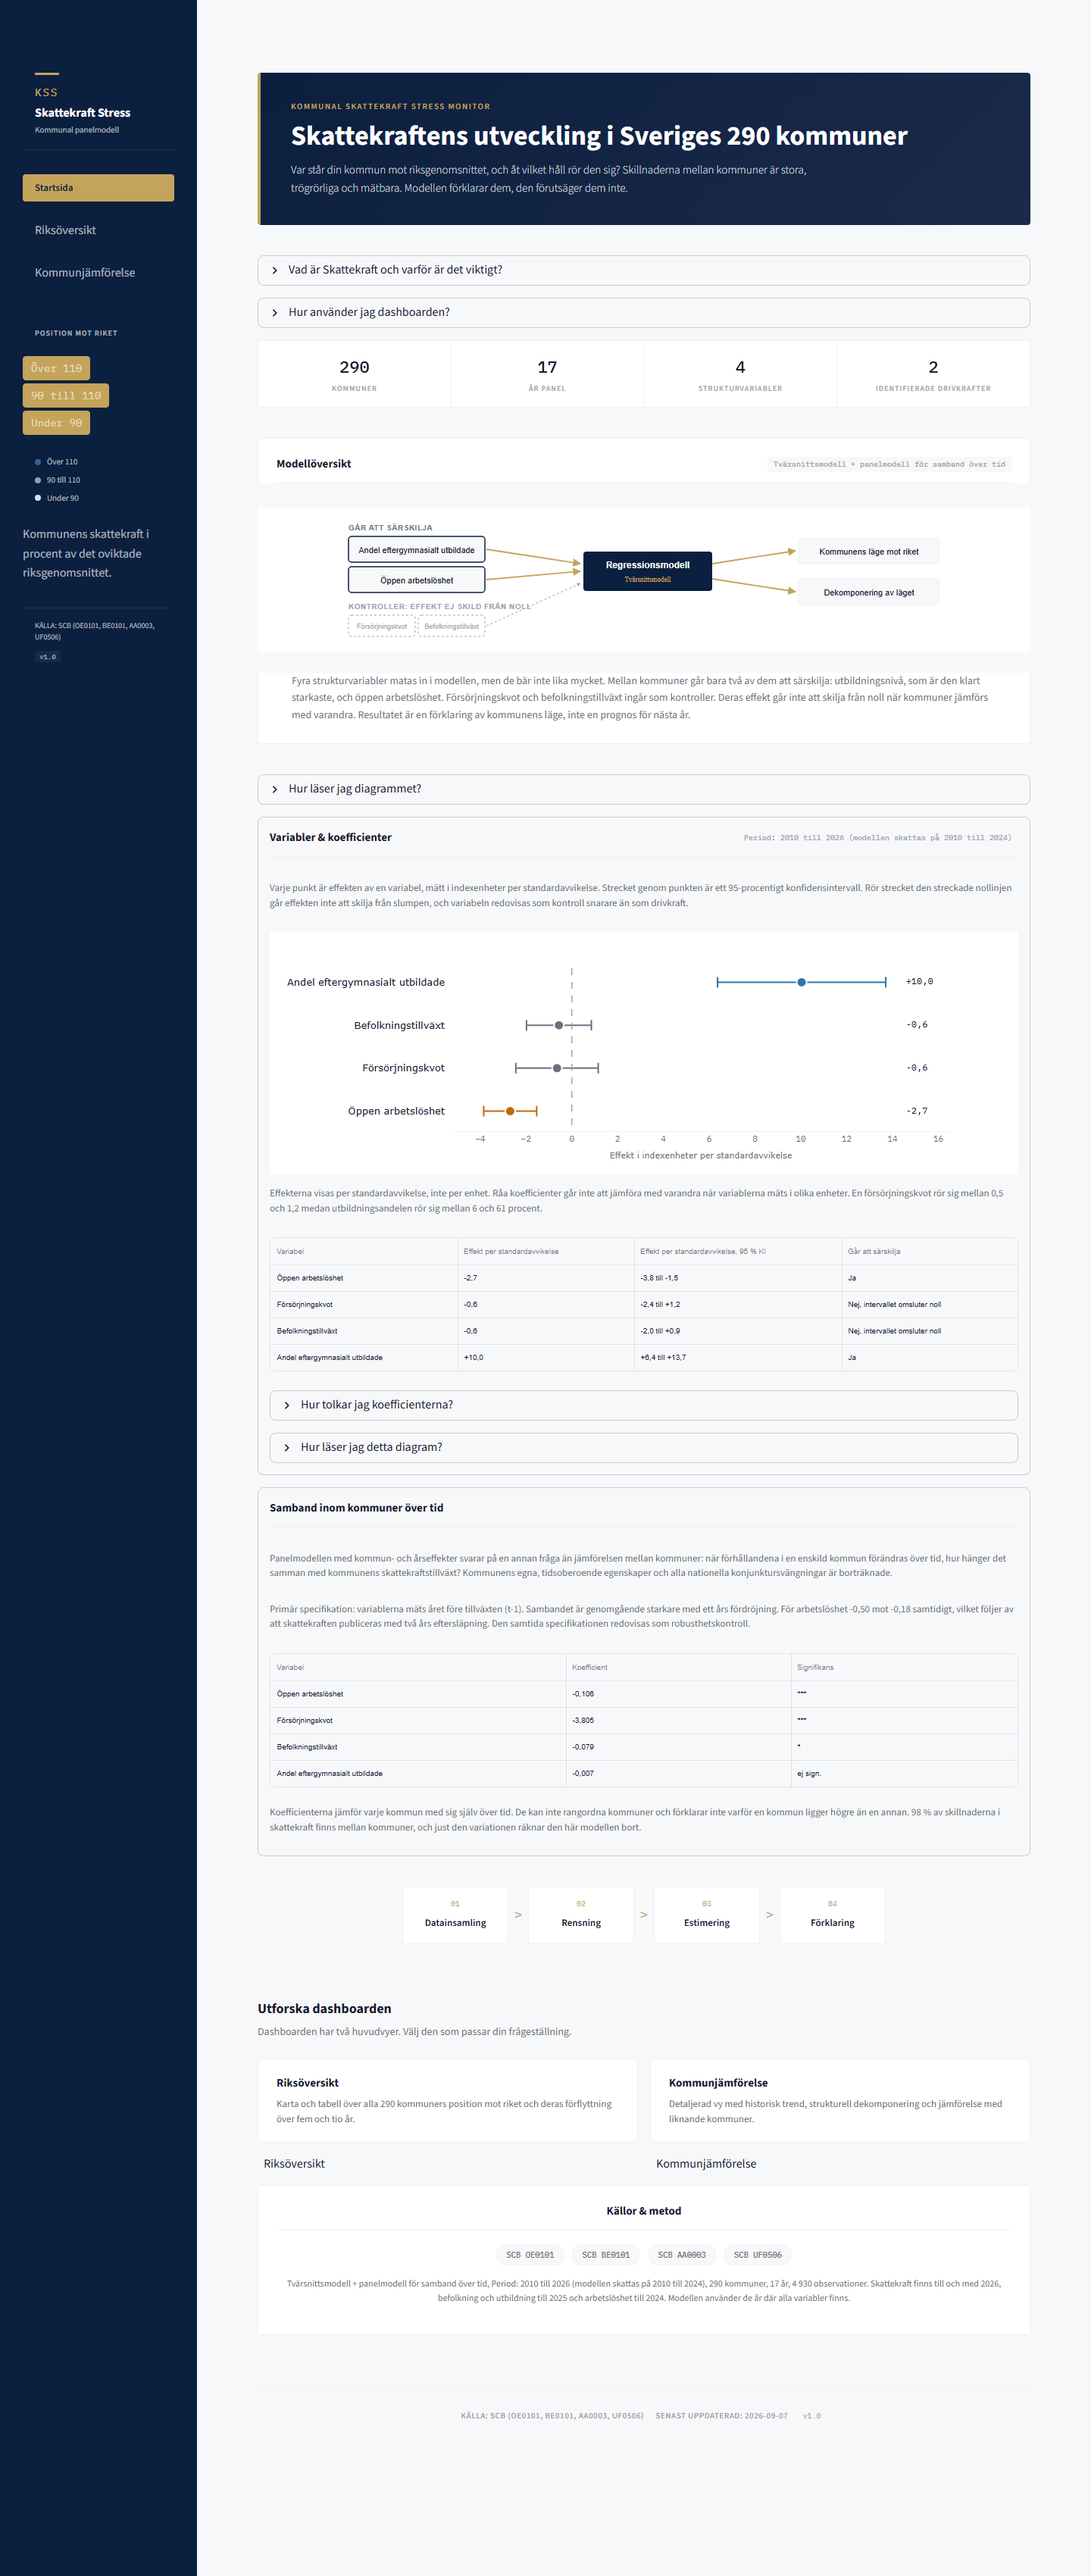
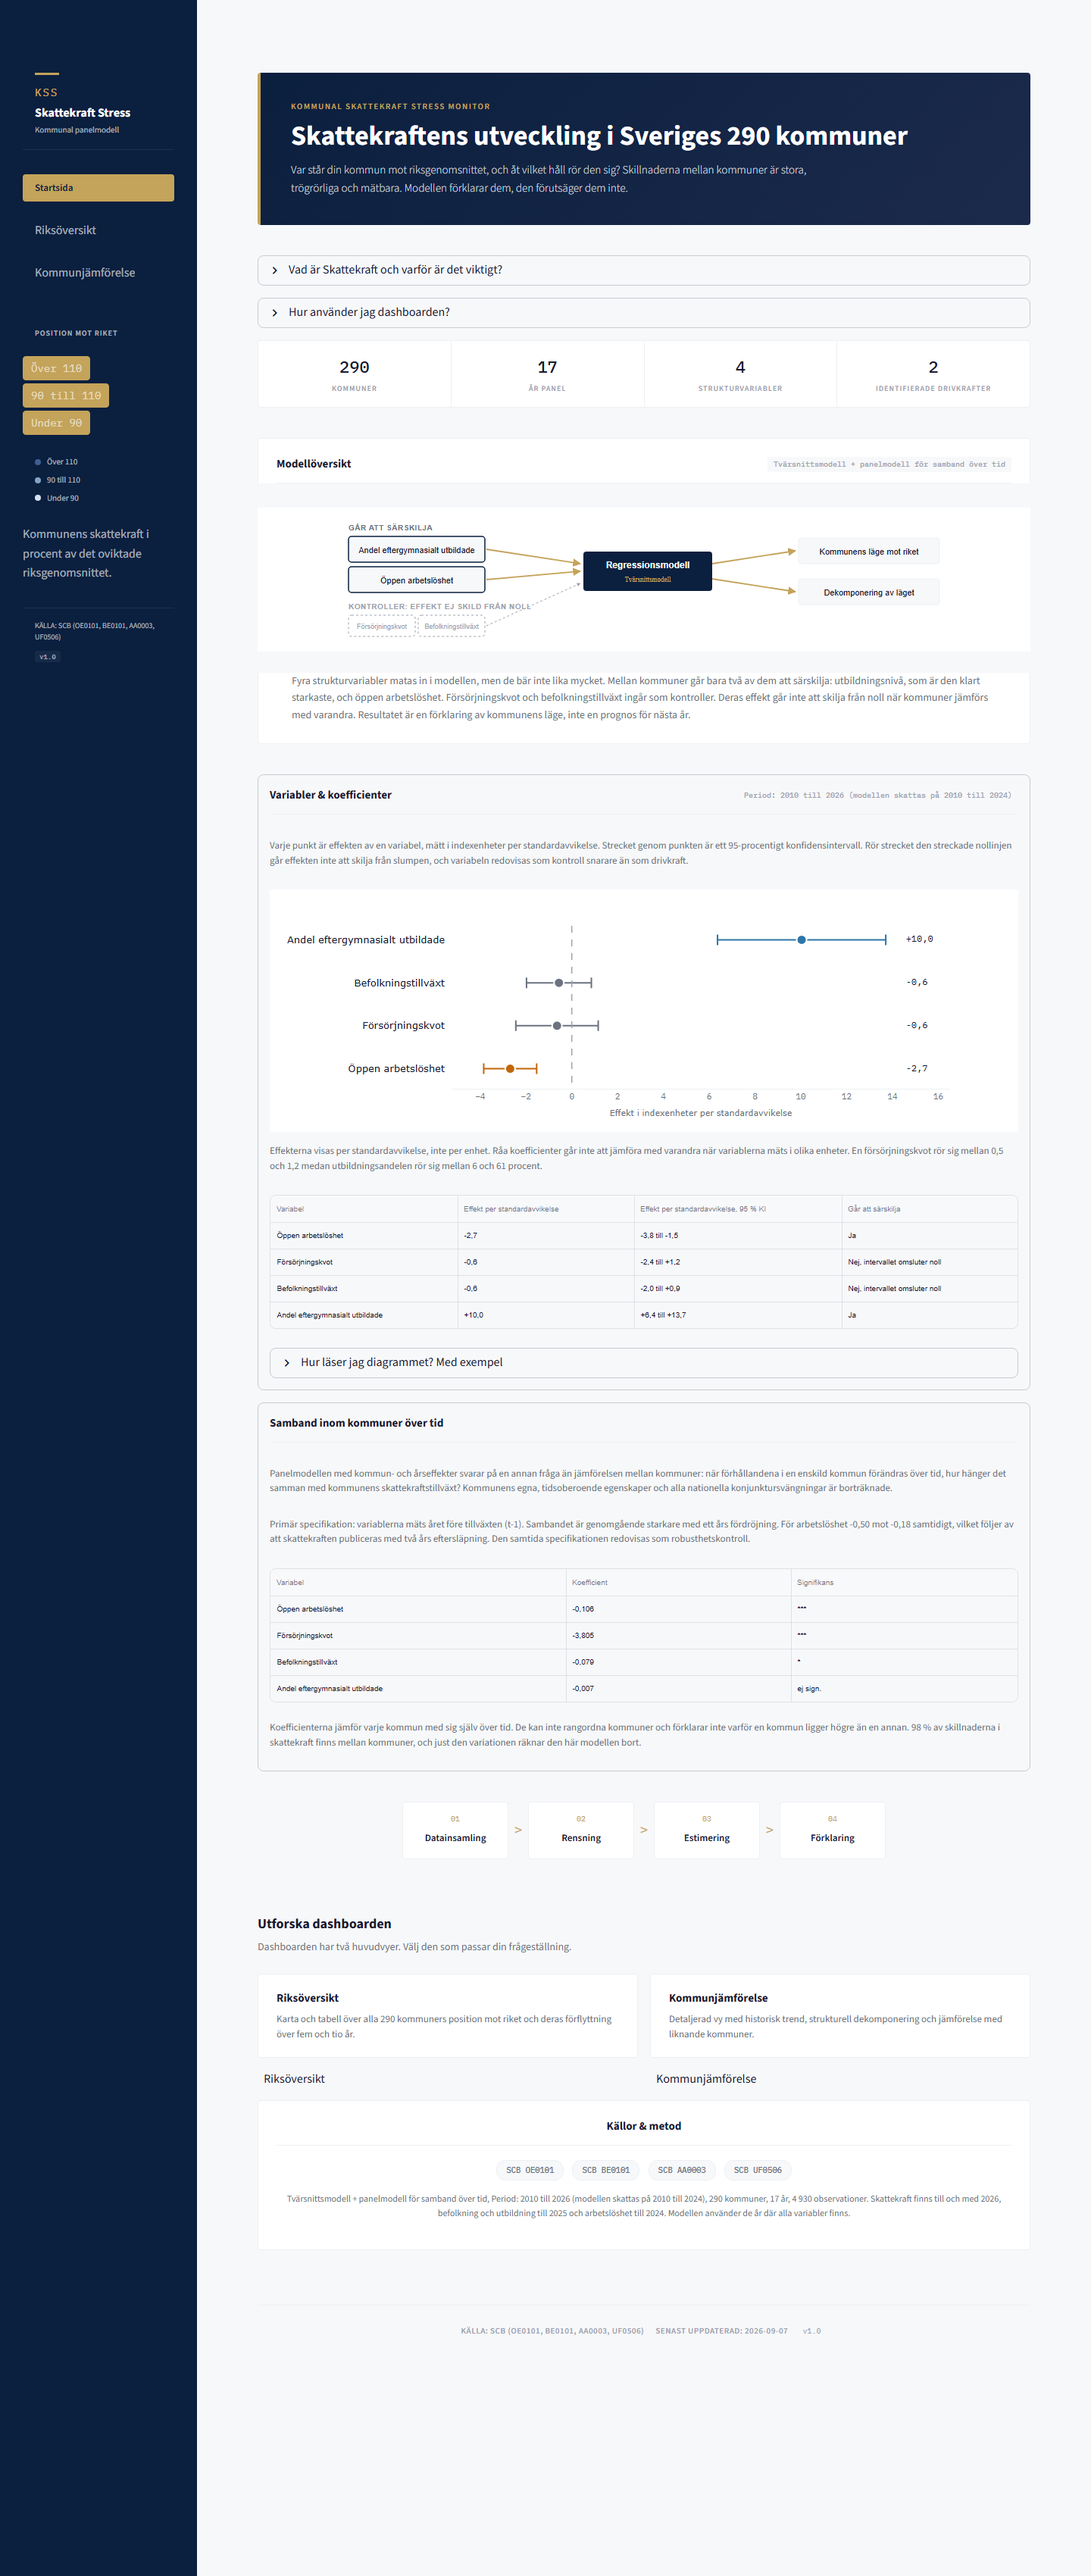
docs: gather the coefficient chart's explanation into one guide with a scenario
The reader had to assemble the explanation from three places. How to read the
chart and the worked example sat in two separate expanders under the chart,
and a third piece, the Filipstad and Danderyd calculation, sat under the model
diagram two cards above the chart it explains.

They are now one expander directly beneath the chart, opening with a concise
scenario so a reader knows what question the chart answers before meeting any
numbers: an ekonomichef in a kommun at index 84 who wants to know what the 16
point gap consists of, and who is told plainly that the chart explains the
gap rather than predicting what closing it would do.

Then, in order: how to read a point and its interval, what the zero line
decides, why the effect is per standard deviation, what the chart currently
says, the two worked calculations, and the caveat that education correlates
0,81 with the tax base and is closer to a restatement than to a lever.

The six labels the consolidation left behind are deleted rather than left in
place. Dead copy is exactly what let nine stale strings survive the cutover
unnoticed.

Inner headings are bold rather than h3, which had rendered larger than the
card title above them and inverted the hierarchy.

Suite 414 passed.

Claude-Session: https://claude.ai/code/session_019aUmuntthZ2ga4wZp4fz1X

diff --git a/src/ui/labels.py b/src/ui/labels.py
@@ -166,14 +166,6 @@ SWEDISH_LABELS = {
         "varandra. Resultatet är en förklaring av kommunens läge, inte en "
         "prognos för nästa år."
     ),
-    "landing_model_example": (
-        "Filipstad ligger 16,7 indexenheter under riksgenomsnittet. Modellen "
-        "hänför 12,9 av dem till utbildningsnivån och 4,0 till "
-        "arbetslösheten, och lämnar 0,1 oförklarat. Danderyd ligger 99,3 "
-        "enheter över. Där förklarar samma modell knappt hälften. Sambandet "
-        "är starkast i mitten av fördelningen och svagast i toppen."
-    ),
-    "landing_model_expander": "Hur läser jag diagrammet?",
     "landing_vars_explanation": (
         "Varje punkt är effekten av en variabel, mätt i indexenheter per "
         "standardavvikelse. Strecket genom punkten är ett 95-procentigt "
@@ -182,13 +174,65 @@ SWEDISH_LABELS = {
         "kontroll snarare än som drivkraft."
     ),
     "landing_vars_example": (
-        "Exempel: utbildningsnivån ligger på +10,0 indexenheter. En kommun "
-        "vars andel eftergymnasialt utbildade är en standardavvikelse högre "
-        "än en annans ligger alltså ungefär 10 indexenheter högre i "
-        "skattekraft. Det är ett starkt och robust samband, men det ligger "
-        "nära en omskrivning av samma sak, inte en knapp att trycka på."
+        "**Ett scenario**"
+        "\n\n"
+        "Du är ekonomichef i en kommun som ligger på index 84, alltså 16 "
+        "indexenheter under riksgenomsnittet. Du vill veta vad den skillnaden "
+        "består av innan du tar den vidare till nämnden. Diagrammet ovan "
+        "svarar på precis den frågan, och det svarar inte på frågan om vad "
+        "som skulle hända om ni ändrade något."
+        "\n\n"
+        "**Så läser du diagrammet**"
+        "\n\n"
+        "Punkten är effekten av en variabel och strecket genom den är ett "
+        "95-procentigt konfidensintervall."
+        "\n\n"
+        "Den streckade nollinjen avgör tolkningen. Ligger hela strecket på "
+        "ena sidan av linjen skiljer variabeln kommuner åt. Rör strecket "
+        "linjen går effekten inte att skilja från noll, och punkten ritas "
+        "grå. En grå variabel finns kvar i modellen som kontroll, men den "
+        "förklarar inte varför en kommun ligger högre än en annan."
+        "\n\n"
+        "Effekten mäts per standardavvikelse i stället för per enhet. Det "
+        "behövs för att de fyra variablerna ska gå att jämföra med varandra: "
+        "en försörjningskvot rör sig mellan 0,5 och 1,2 medan "
+        "utbildningsandelen rör sig mellan 6 och 61 procent, så råa "
+        "koefficienter säger ingenting om vilken variabel som betyder mest."
+        "\n\n"
+        "**Vad diagrammet säger just nu**"
+        "\n\n"
+        "Utbildningsandelen ligger på +10,0 indexenheter per "
+        "standardavvikelse, med intervallet +6,4 till +13,7. Hela strecket "
+        "ligger klart över noll. Öppen arbetslöshet ligger på -2,7 med "
+        "intervallet -3,8 till -1,5, alltså helt under noll."
+        "\n\n"
+        "Försörjningskvoten ligger på -0,6 med intervallet -2,4 till +1,2, "
+        "som omsluter noll. Räknat i råa koefficienter ser försörjningskvoten "
+        "störst ut av alla fyra. Räknat i verklig effekt mellan kommuner går "
+        "den inte att skilja från ingenting."
+        "\n\n"
+        "**Två färdiga uträkningar**"
+        "\n\n"
+        "Filipstad ligger 16,7 indexenheter under riksgenomsnittet. Modellen "
+        "hänför 12,9 av dem till utbildningsnivån och 4,0 till "
+        "arbetslösheten, och lämnar 0,1 oförklarat."
+        "\n\n"
+        "Danderyd ligger 99,3 enheter över, och där förklarar samma modell "
+        "knappt hälften. Sambandet är starkast i mitten av fördelningen och "
+        "svagast i toppen, så för de allra rikaste kommunerna ska "
+        "dekomponeringen läsas med försiktighet."
+        "\n\n"
+        "**Det viktigaste förbehållet**"
+        "\n\n"
+        "Utbildningsandelen samvarierar 0,81 med skattekraften. Sambandet är "
+        "robust, men det ligger nära en omskrivning av samma sak: en "
+        "befolkning med höga inkomster och en befolkning med lång utbildning "
+        "är i stor utsträckning samma befolkning. Stapelns längd säger alltså "
+        "inte hur mycket skattekraft en utbildningssatsning skulle ge."
     ),
-    "landing_vars_expander": "Hur tolkar jag koefficienterna?",
+    "landing_vars_expander": (
+        "Hur läser jag diagrammet? Med exempel"
+    ),
     "landing_nav_explanation": (
         "Dashboarden har två huvudvyer. Välj den som passar din frågeställning."
     ),
@@ -550,26 +594,6 @@ SWEDISH_LABELS = {
     "vars_table_interpretation": "Tolkning",
 
     # Graph explanations (collapsible, standardized)
-    "explain_coef_chart_expander": "Hur läser jag detta diagram?",
-    "explain_coef_chart_text": (
-        "Diagrammet visar effekten per standardavvikelse, i indexenheter. "
-        "Måttet behövs för att variablerna ska gå att jämföra med varandra: "
-        "de mäts i olika enheter, så råa koefficienter säger ingenting om "
-        "vilken som betyder mest."
-        "\n\n"
-        "Punkten är skattningen och strecket är dess 95-procentiga "
-        "konfidensintervall. Nollinjen är det som avgör: rör strecket den, "
-        "går effekten inte att skilja från noll, och punkten ritas grå. En "
-        "stapel från noll skulle dölja halva intervallet bakom sin egen "
-        "fyllning. Därför punkt och streck i stället."
-        "\n\n"
-        "Exempel: utbildningsandelen ligger på +10,0 indexenheter per "
-        "standardavvikelse med intervallet [+6,4, +13,7], och hela strecket "
-        "ligger klart över noll. Försörjningskvoten ligger på -0,6 med "
-        "intervallet [-2,4, +1,2], som omsluter noll. Räknat i råa "
-        "koefficienter ser försörjningskvoten störst ut av alla fyra; räknat "
-        "i verklig effekt går den inte att skilja från ingenting."
-    ),
     "explain_choropleth_expander": "Hur läser jag kartan?",
     "explain_choropleth_text": (
         "Kartan visar alla 290 kommuner. Vad färgen betyder beror på vilket "

diff --git a/app.py b/app.py
@@ -270,9 +270,6 @@ st.html(f"""
 </div>
 """)
 
-with st.expander(SWEDISH_LABELS["landing_model_expander"]):
-    st.markdown(SWEDISH_LABELS["landing_model_example"])
-
 # ---------------------------------------------------------------------------
 
 # ---------------------------------------------------------------------------
@@ -432,10 +429,12 @@ with st.container(border=True):
     )
     st.dataframe(coef_table, use_container_width=True, hide_index=True)
 
+    # One guide rather than three. The scenario, the reading rules, the
+    # worked example and the caveat were spread over two cards and three
+    # expanders, so a reader had to assemble them; the example even sat under
+    # the model diagram, two cards above the chart it explains.
     with st.expander(SWEDISH_LABELS["landing_vars_expander"]):
         st.markdown(SWEDISH_LABELS["landing_vars_example"])
-    with st.expander(SWEDISH_LABELS["explain_coef_chart_expander"]):
-        st.markdown(SWEDISH_LABELS["explain_coef_chart_text"])
 
 # ---------------------------------------------------------------------------
 # Section 4b: Samband inom kommuner över tid (the FE panel, T2.4)
